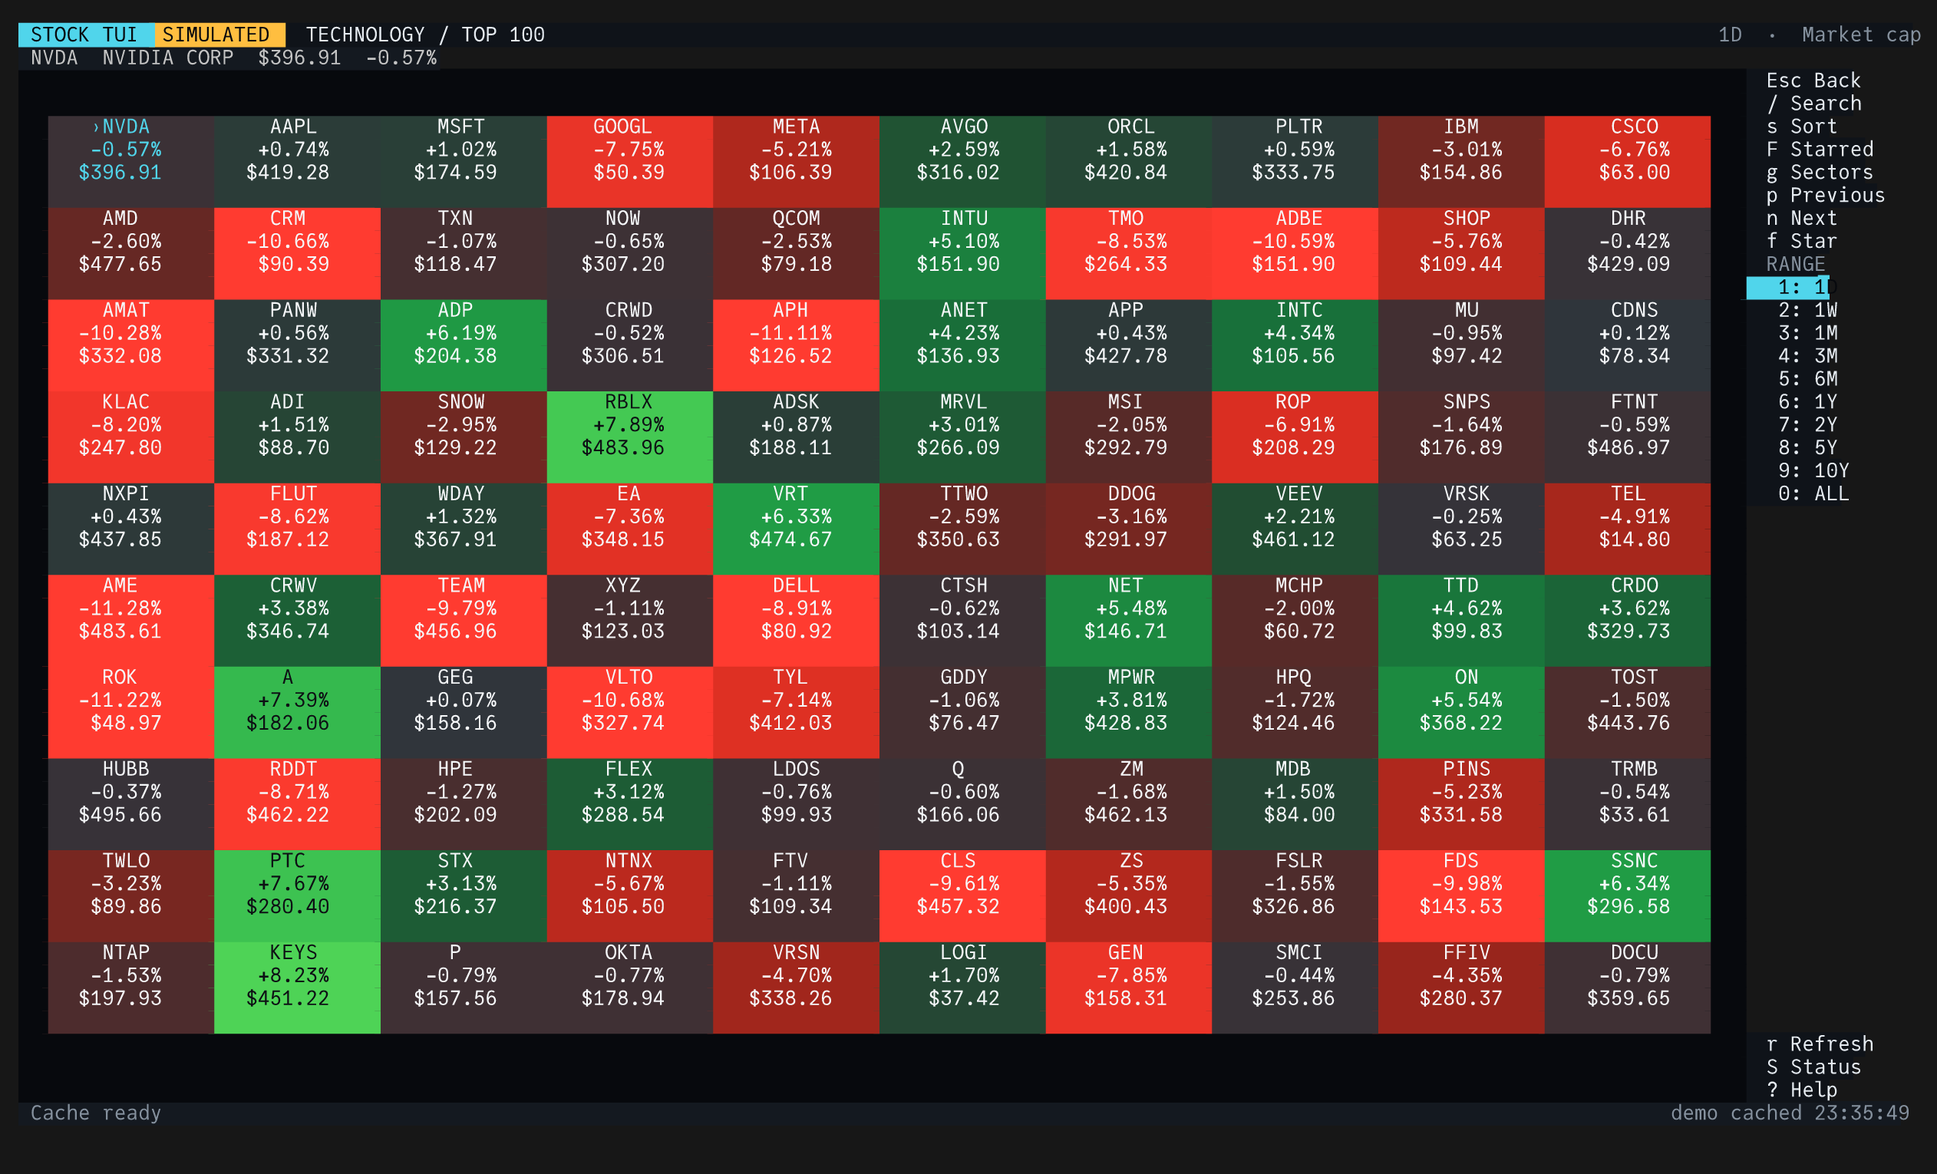
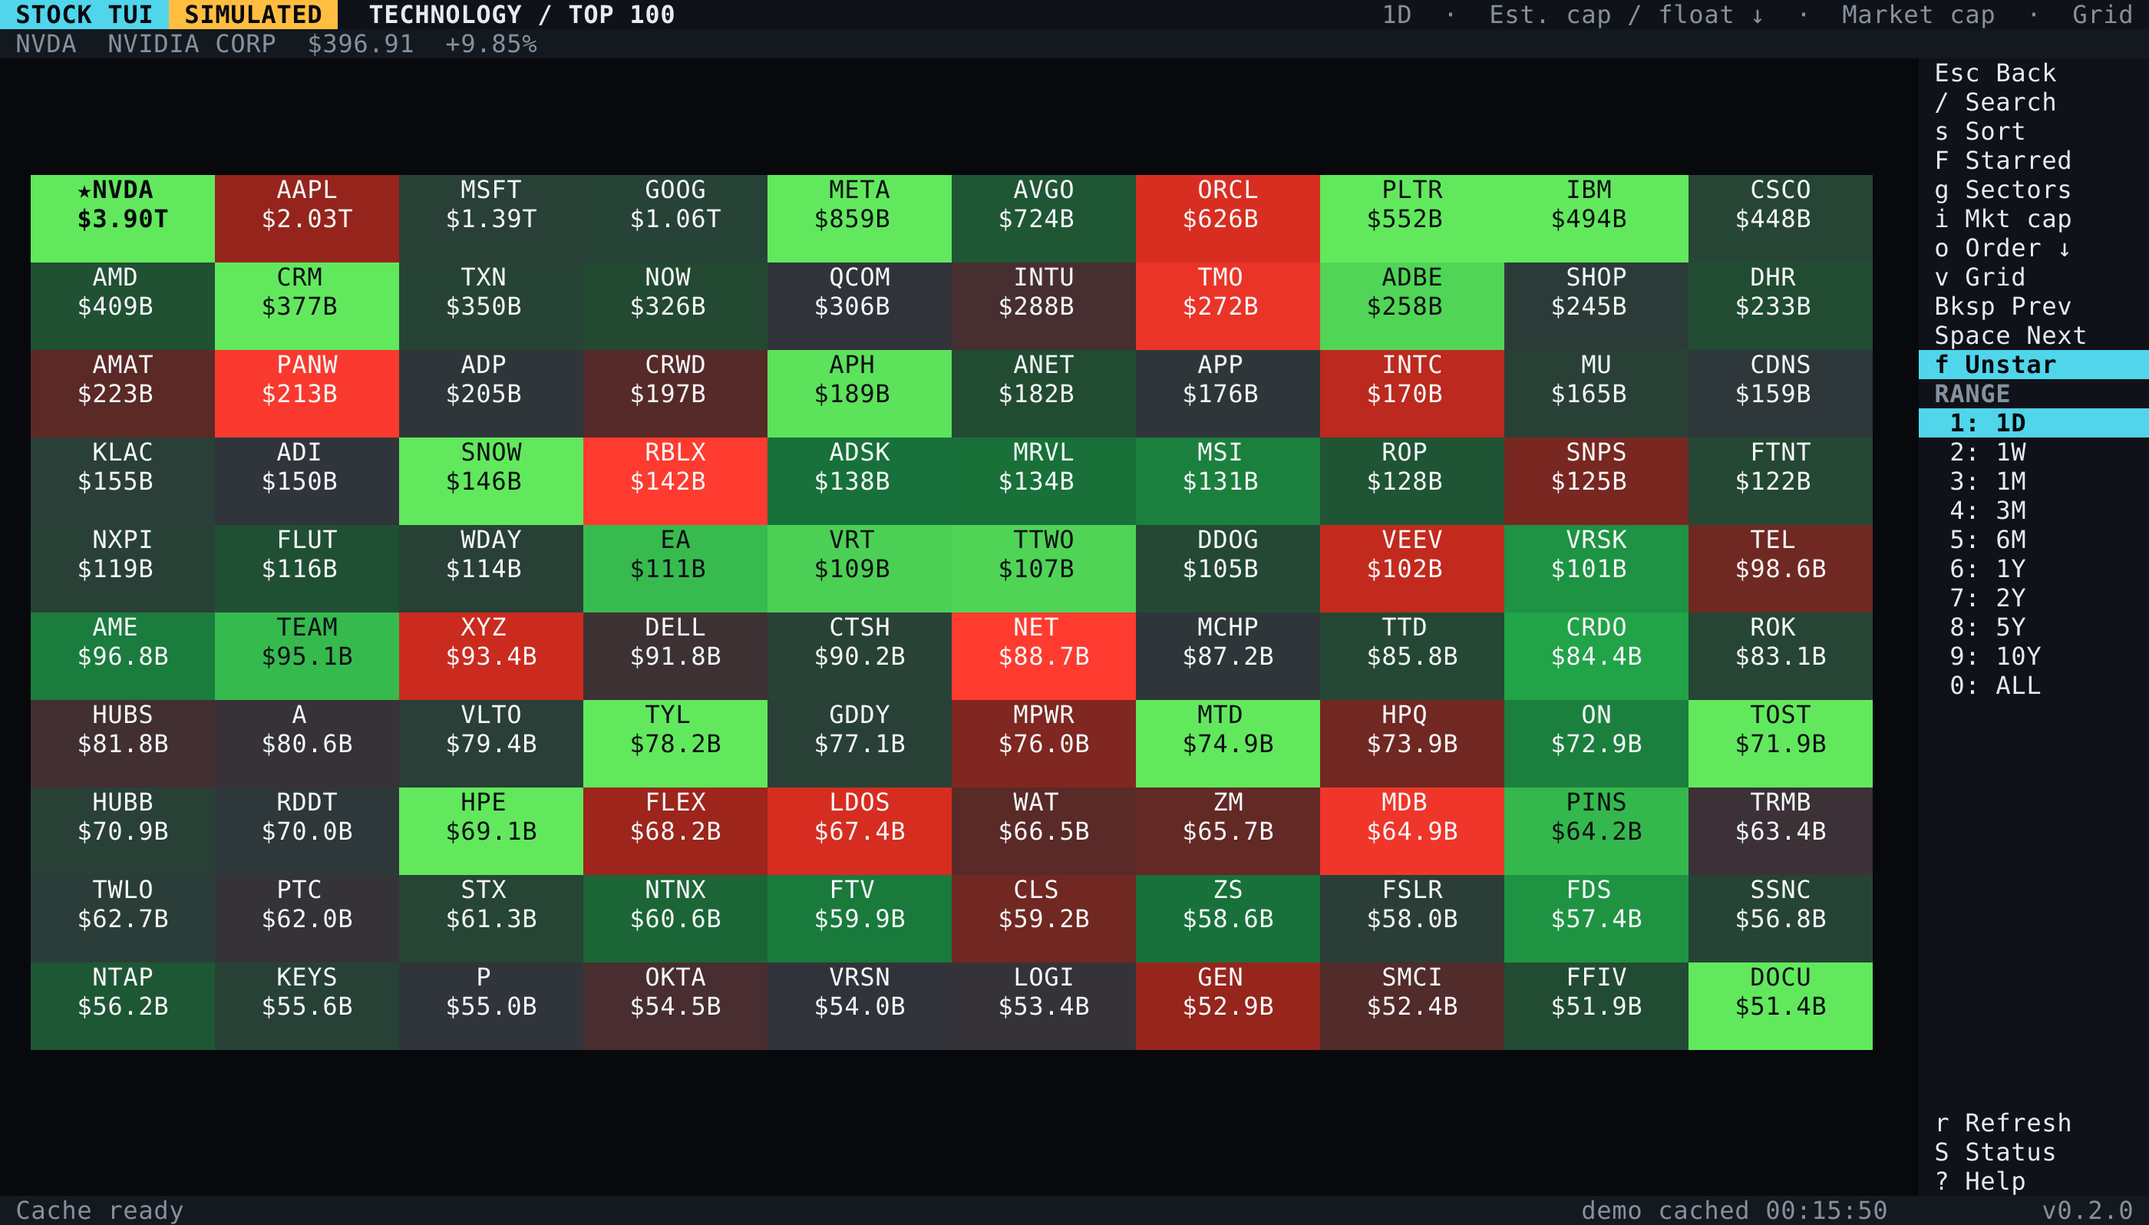
Refresh v0.2.0 documentation and screenshots

diff --git a/README.md b/README.md
@@ -20,19 +20,28 @@ The iterative Codex work performed through chatcode.dev is documented in the
 
 ## Screenshots
 
-These captures use the deterministic offline demo. Company identities are real
-SEC-catalog entries; all displayed prices, returns, volumes, rankings, and news
-are simulated.
+These v0.2.0 captures use the deterministic offline demo at a 140x42 terminal
+viewport. Company identities are real SEC-catalog entries; all displayed
+prices, returns, volumes, rankings, and news are simulated.
 
 ### Market Overview
+
+Nine sectors, each containing 100 equally sized ticker signals, plus selectable
+S&P 500, Dow, and Nasdaq-100 ETF proxies.
 
 [![Nine-sector stock market heatmap in stock-tui](docs/screenshots/market-overview.png)](docs/screenshots/market-overview.png)
 
 ### Sector View
 
+Technology ranked by estimated market cap, with one metric per tile and starred
+NVDA emphasized.
+
 [![Technology sector top-100 heatmap in stock-tui](docs/screenshots/technology-sector.png)](docs/screenshots/technology-sector.png)
 
 ### Ticker Detail
+
+The one-year NVDA view with a movable chart cursor, price and time axes, volume,
+statistics, related news, sector rank, and absolute and relative gain.
 
 [![NVDA detail view with price and volume charts in stock-tui](docs/screenshots/ticker-detail.png)](docs/screenshots/ticker-detail.png)
 
@@ -54,7 +63,8 @@ are simulated.
   context, and news.
 - Supports mouse hover, clicking, wheel input, keyboard navigation, and
   terminal resize events.
-- Searches the local issuer catalog by symbol or company name.
+- Searches cached companies by symbol or company name, including retained
+  provider assets outside the current top-100 universe.
 - Persists starred tickers and emphasizes them in every heatmap.
 - Opens immediately from a local SQLite cache while network synchronization
   proceeds in the background.
@@ -69,8 +79,9 @@ For every ordering except Volume, the return heat scale is symmetric around
 zero and capped using the visible market's 90th-percentile absolute move.
 Volume uses a separate log scale within each sector, bounded by its 10th and
 90th percentiles, so exceptional prints do not flatten brightness. Missing
-return or volume data appears neutral; data more than 72 hours old keeps a
-contrast-aware foreground and is underlined as a freshness hint.
+return or volume data appears neutral; when data is more than 72 hours old, only
+the ticker label is underlined as a freshness hint while retaining a
+contrast-aware foreground.
 
 ## Why Rust
 
@@ -105,9 +116,10 @@ URL as a highlighted OSC 8 terminal link and waits: press `Enter` to open it,
 `c` to copy it through the terminal clipboard, `d` to start demo mode, or `Esc`
 to continue directly to credential entry. It accepts the key ID and secret
 through hidden terminal input, validates the pair, and stores it under
-`[providers.alpaca]` in the platform `config.toml`. Existing environment or
-working-directory `.env` values skip onboarding. Alpaca credentials never
-select a provider or override `provider = "stock-api"`.
+`[providers.alpaca]` in the platform `config.toml`. A complete usable pair from
+the process environment or a working-directory `.env` skips credential entry.
+Alpaca credentials never select a provider or override
+`provider = "stock-api"`.
 
 Use the simulated market explicitly when testing without provider data:
 
@@ -303,14 +315,15 @@ stock-tui --demo
 ## Controls
 
 Every visible rail control, sector, ticker, range, sort option, detail tab, and
-news row can be clicked with the left mouse button.
+news row can be clicked with the left mouse button. The table describes normal
+navigation views; an open overlay owns its relevant keys as described below.
 
 | Input | Action |
 | --- | --- |
 | Mouse move | Select a sector, benchmark, ticker, or news row; move the chart cursor |
 | Left click | Activate the control, sector, ticker, tab, or news item |
-| Wheel on overview/sector | Move to the previous or next date range |
-| Wheel on ticker chart | Move the selected chart sample |
+| Wheel on Overview, Sector, or Starred | Move to the previous or next date range |
+| Wheel anywhere on ticker detail | Move the selected chart sample |
 | Arrow keys or `h` `j` `k` `l` | Move sector, ticker, sort, chart, or news selection |
 | `Enter` | Open the selected sector, ticker, news item, or overlay choice |
 | `Esc` | Close an overlay or go up one level |
@@ -334,7 +347,7 @@ news row can be clicked with the left mouse button.
 | `r` | Request an immediate broad-market snapshot refresh |
 | `S` | Open read-only data status |
 | `?` | Open keyboard help |
-| `q` or `Ctrl-C` | Quit and restore the terminal |
+| `q` or `Ctrl-C` | Quit and restore the terminal when no overlay is open |
 
 On ticker detail, Left/Right (or `h`/`l`) moves the chart cursor while
 Up/Down (or `k`/`j`) selects the related-news row; `Enter` opens it.
@@ -343,11 +356,11 @@ sector, starred list, or benchmark order while preserving the selected range
 and ordering.
 
 Sector and Starred cells show the ticker plus one selected value. Choosing an
-ordering also selects its natural default value: estimated market cap,
-relative gain, volume, or price for alphabetical order. `i` then cycles the
-six available values independently. `o` reverses ticker order in Overview,
-Sector, and Starred views. `v` applies Grid or Spiral placement to the nested
-Overview sector heatmaps and the expanded Sector/Starred heatmaps. In
+ordering resets its direction and selects its natural default value: estimated
+market cap, relative gain, volume, or price for alphabetical order. `i` then
+cycles the six available values independently. `o` reverses ticker order in
+Overview, Sector, and Starred views. `v` applies Grid or Spiral placement to the
+nested Overview sector heatmaps and the expanded Sector/Starred heatmaps. In
 ticker-selectable views, mouse targets and arrow-key navigation follow the
 visible layout; Overview input remains sector-level.
 
@@ -358,10 +371,17 @@ opening an overlay also cancel a pending prefix.
 
 In search, type or paste a query, use Up/Down to select a result, `Enter` to
 open it, `Ctrl-U` to clear the query, and `Esc` to close. Search is local and
-returns at most 20 catalog matches. Activating a headline asks the operating
-system to open its provider URL in the default browser. If no browser can be
-launched, the URL is copied through the terminal's OSC 52 clipboard protocol
-instead.
+returns at most 20 cached-company matches. Text keys, including `q`, digits, and
+range shortcuts, belong to the query while Search is open. In Help and Data
+Status, `q` closes the overlay; `Esc` closes every overlay. Activating a
+headline asks the operating system to open its provider URL in the default
+browser. If no browser can be launched, the URL is copied through the
+terminal's OSC 52 clipboard protocol instead.
+
+During cache preparation and provider synchronization, the secondary header or
+footer reports numeric `completed/total` progress and a percentage. `S` opens
+the detailed read-only status view, while the running application version stays
+visible at the lower right.
 
 On ANSI terminals, `stock-tui` explicitly requests all-motion tracking with
 SGR mouse encoding (`1003` + `1006`). Its click, hover, drag, and wheel reports
@@ -422,9 +442,11 @@ timer. Opening a ticker or changing its range separately triggers a lazy detail
 request. Demo and offline modes never schedule remote refreshes. `S` only opens
 the status panel; it does not start synchronization.
 
-The current adapter is limited to Alpaca US equities. Feed selection changes
-US venue coverage; it does not enable non-US markets. Additional countries,
-currencies, sessions, and licensed providers need explicit future adapters.
+The default Alpaca adapter is limited to US equities. Its feed selection changes
+US venue coverage; it does not enable non-US markets. The `stock-api` contract
+is provider-neutral, but the current sector catalog and UI remain designed
+around US-listed equities and USD. Additional countries, currencies, sessions,
+and licensed sources require compatible adapters and explicit product support.
 The public catalog endpoint contains only the compact SEC-derived issuer
 catalog; it is not a market-price or news proxy.
 
@@ -436,9 +458,10 @@ change; consult Alpaca's current documentation.
 
 The local cache is for the credential holder's use. **Alpaca states that its
 API data cannot be redistributed under ordinary access terms.** Do not publish
-or ship a populated Alpaca cache. The project intentionally uses a
-bring-your-own-key model and has no shared-key market-data proxy or public
-price/news backend.
+or ship a populated Alpaca cache. The default production model is
+bring-your-own-key and there is no public shared-key price/news service. The
+separately operated `stock-api` endpoint is restricted to explicitly authorized
+development tests and is not a licensed public market-data backend.
 See [Requesting Public-Display Permission](docs/data-providers.md#requesting-public-display-permission)
 before proposing any no-key service.
 

diff --git a/docs/cache-and-sync.md b/docs/cache-and-sync.md
@@ -25,8 +25,8 @@ resolved `db_path`, or override it with `--db` / `STOCK_TUI_DB_PATH`.
 Releases before 0.1.2 used `market.sqlite3` for both modes. On the first live
 startup after upgrading, a detected legacy demo checkpoint triggers an
 automatic cleanup of simulated bars, news, snapshots, and memberships before
-the Alpaca sync begins. Favorites and already-fetched Alpaca bars/news are
-preserved.
+the selected provider sync begins. Favorites and already-fetched live bars and
+news are preserved.
 
 The application also creates platform config and cache directories. The
 configuration file is `<config_dir>/config.toml`; the SQLite database belongs
@@ -124,12 +124,12 @@ A live database is prepared in stages:
 2. Select up to 100 retained initial members per sector by estimated market cap
    where available and numeric SEC public float otherwise. With no cached
    market caps this is equivalent to descending catalog proxy rank.
-3. Fetch Alpaca's active US-equity asset list before requesting snapshots.
-   Present catalog candidates are reactivated; missing candidates are removed
-   from current membership without deleting their company rows, favorites, or
-   cached data. Memberships are then recomputed and current names/exchanges
-   are merged without erasing catalog sector, proxy, share-estimate, or
-   market-cap metadata.
+3. Fetch the selected asset provider's active instrument list before requesting
+   snapshots. Present catalog candidates are reactivated; missing candidates
+   are removed from current membership without deleting their company rows,
+   favorites, or cached data. Memberships are then recomputed and current
+   names/exchanges are merged without erasing catalog sector, proxy,
+   share-estimate, or market-cap metadata.
 4. Request current snapshots for all retained sector candidates and the three
    benchmark ETF proxies in configurable batches (100 by default).
 5. Where a catalog share estimate is available, calculate estimated market cap
@@ -141,22 +141,23 @@ A live database is prepared in stages:
    benchmark ETF proxies in configurable 50-symbol batches: two years of
    `1Day` bars and all provider-available `1Week` bars.
 
-Other active Alpaca assets can remain searchable without joining a heatmap
+Other active provider assets can remain searchable without joining a heatmap
 sector. If the active-asset request fails, startup reports the provider error
 and continues from the last reconciled retention state in the cache.
 
 The UI remains interactive during history population. A tile can be neutral or
-marked stale until enough data for its selected range arrives. The Data Status
-overlay shows phase, completed/total counts, automatic-refresh cadence, the
-latest snapshot-cache checkpoint, status text, and the last provider error.
-Opening this overlay with `S` is read-only and does not start a request.
+marked stale until enough data for its selected range arrives. Normal chrome
+shows the active phase with completed/total counts and percentage. The Data
+Status overlay adds automatic-refresh cadence, the latest snapshot-cache
+checkpoint, status text, and the last provider error. Opening this overlay with
+`S` is read-only and does not start a request.
 
 ## Incremental History Sync
 
 The bulk cache has two plans: `1Day` bars beginning 731 days before now and
-`1Week` bars beginning at the unbounded `ALL` cutoff. For Alpaca, an unbounded
-request returns whatever history the account and feed make available rather
-than manufacturing data before the provider's coverage.
+`1Week` bars beginning at the unbounded `ALL` cutoff. An unbounded request
+returns whatever history the selected provider makes available rather than
+manufacturing data before its coverage.
 
 Each plan records completion per symbol. Before a batch:
 
@@ -270,14 +271,14 @@ symbol matches rank first, then name prefixes, current-universe status, market
 cap, and symbol. The UI requests at most 20 results.
 
 Company rows support `in_universe` and `retained` independently. SEC-derived
-sector candidates reported by Alpaca as active are retained so snapshot refresh
-can move them into or out of the top 100. A catalog candidate missing from the
-active-asset response is marked unretained and removed from current membership,
-but its company row, bars, news, and favorite remain intact. A later active
-response reactivates that candidate. A newly published remote catalog or a
-newer embedded release catalog is still required to consider an issuer absent
-from the current candidate set. The current release does not run automatic
-garbage collection for old company rows.
+sector candidates reported by the selected asset provider as active are retained
+so snapshot refresh can move them into or out of the top 100. A catalog
+candidate missing from the active-asset response is marked unretained and
+removed from current membership, but its company row, bars, news, and favorite
+remain intact. A later active response reactivates that candidate. A newly
+published remote catalog or a newer embedded release catalog is still required
+to consider an issuer absent from the current candidate set. The current
+release does not run automatic garbage collection for old company rows.
 
 ## Offline And Demo Behavior
 

diff --git a/docs/data-providers.md b/docs/data-providers.md
@@ -328,12 +328,13 @@ filing. These policies are calculation metadata, not extra sector tiles.
 `EntityPublicFloat` is a filer-reported issuer-level value and is **not market
 capitalization**. The build stores it as a numeric size proxy with provenance;
 it never writes it into `Company.market_cap`. When both a catalog share estimate
-and an Alpaca snapshot price exist, runtime estimates market cap as
-price-equivalent common shares times current price. Each successful candidate
-snapshot refresh then selects 100 companies per sector using estimated market
-cap when available or numeric public float otherwise. Those 900 companies and
-the three explicitly configured benchmark ETF proxies receive the bulk daily
-and all-provider-available weekly history backfills.
+and a current snapshot price from the selected market-data provider exist,
+runtime estimates market cap as price-equivalent common shares times current
+price. Each successful candidate snapshot refresh then selects 100 companies
+per sector using estimated market cap when available or numeric public float
+otherwise. Those 900 companies and the three explicitly configured benchmark
+ETF proxies receive the bulk daily and all-provider-available weekly history
+backfills.
 
 This means a company can move into the visible top 100 as prices change if it
 is already in the resolved candidate pool and has usable shares. A large
@@ -343,9 +344,9 @@ a successful catalog publication, but no longer requires a client release.
 Public-float and share facts can have different as-of dates, and a missing
 share fact leaves membership dependent on the proxy.
 
-Alpaca's active-asset response refreshes names and exchange identifiers for
-symbols it recognizes without overwriting SEC-derived SIC sector, numeric
-proxy, share estimate/provenance, or retention state. Alpaca-only active
+The selected asset provider's response refreshes names and exchange identifiers
+for symbols it recognizes without overwriting SEC-derived SIC sector, numeric
+proxy, share estimate/provenance, or retention state. Provider-only active
 symbols remain searchable and can load detail, but do not enter a sector
 without catalog metadata.
 
@@ -515,7 +516,8 @@ independently. It is assembled into `ProviderSet`, selected through
 the domain, storage, and rendering layers. A new provider also needs its own
 credential/onboarding branch where applicable.
 
-`StockApiProvider` is the reference for an adapter without credentials. It
+`StockApiProvider` is the reference for an adapter that does not reuse Alpaca
+credentials and can operate either anonymously or with its own bearer token. It
 validates a versioned normalized wire schema and omits `NewsProvider` entirely
 when news is disabled. It does not change the licensing review required for a
 concrete service deployment.

diff --git a/docs/architecture.md b/docs/architecture.md
@@ -313,11 +313,12 @@ protect it like other personal application data.
 
 ## Hosted Data Boundary
 
-The current application deliberately uses a bring-your-own-key model. It has
-no shared-key market-data proxy or public price/news backend, and an ordinary
-personal Alpaca key must never be used to create one. A future licensed
-provider service would need
-a distinct client contract and explicit redistribution rights for every served
+The default production model is deliberately bring-your-own-key. The project
+has no public shared-key price/news backend, and an ordinary personal Alpaca key
+must never be used to create one. A separately operated `stock-api` endpoint is
+restricted to explicitly authorized development tests and is not a licensed
+public market-data service. A future public provider service would need a
+distinct client contract and explicit redistribution rights for every served
 market-data and news field, plus authentication, abuse controls, freshness
 metadata, and documented retention/deletion rules. See
 [Requesting Public-Display Permission](data-providers.md#requesting-public-display-permission).

diff --git a/docs/stock-api-contract.md b/docs/stock-api-contract.md
@@ -200,9 +200,10 @@ of 1,000,000 accumulated bars per request.
 
 ## Optional News
 
-Enable or omit the news capability with `stock_api_news` configuration. When
-disabled, the client does not register a `NewsProvider` and never requests this
-route.
+Enable or omit the news capability with `--stock-api-news`,
+`STOCK_TUI_STOCK_API_NEWS`, or `[providers.stock_api].news` in `config.toml`.
+When disabled, the client does not register a `NewsProvider` and never requests
+this route.
 
 ```http
 GET /v1/news?symbols=AAPL,MSFT&limit=20

diff --git a/CHANGELOG.md b/CHANGELOG.md
@@ -7,6 +7,15 @@ pre-1.0 releases.
 
 ## [Unreleased]
 
+### Documentation
+
+- Refreshed the README's deterministic demo captures for the v0.2.0 Overview,
+  Sector, and Ticker Detail interfaces.
+- Clarified overlay-owned controls, synchronization progress, stale-label
+  styling, cached-company search, and the private development provider boundary.
+- Made generic cache and catalog lifecycle descriptions provider-neutral and
+  corrected the documented `stock-api` news configuration names.
+
 ## [0.2.0] - 2026-07-28
 
 ### Added
